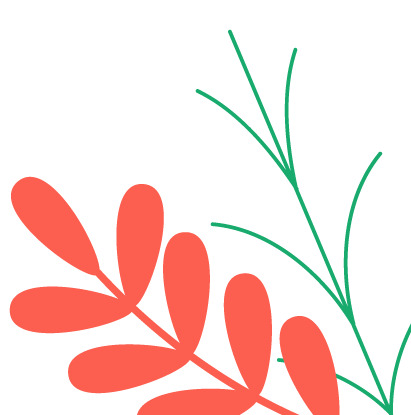
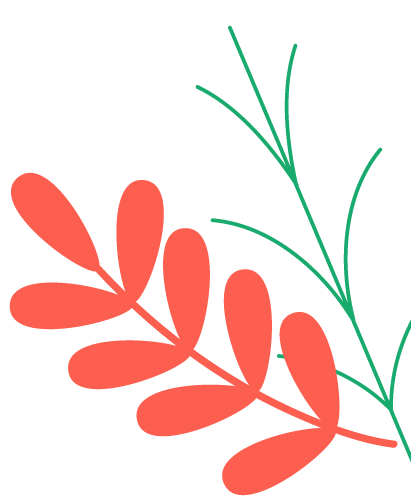
cambios finales

diff --git a/index.html b/index.html
@@ -21,7 +21,7 @@
             <br>
             <img class="logo" src="images/Logotipo.png">
             <br>
-            <div class="contenedor">
+            <div class="contenedorI">
                 <img class="direccion" src="images/Boton1.png">
                 <img class="plantasInferior" src="images/Planta1.png">
             </div>
@@ -30,7 +30,6 @@
         </header>
         <a name="piso3"></a>
         <div class="piso3">
-            <img class="imagencortada" src="images/Planta1corte.png">
             <div class="contenedor">
                 <img class="hojaSuperior" src="images/Planta3(piso1).png">
                 <h1>PISO 3</h1>

diff --git a/estiloMaster.css b/estiloMaster.css
@@ -20,8 +20,15 @@ header .top{
     display: flex;
 }
 
+.contenedorI{
+    width: 100%;
+    display: flex;
+}
+
 header .plantasInferior{
-    margin-left: 26.2%;
+    position: absolute;
+    right: 0px;
+    bottom: -100px;
     margin-bottom: 0px;
     width: 250px;
 }
